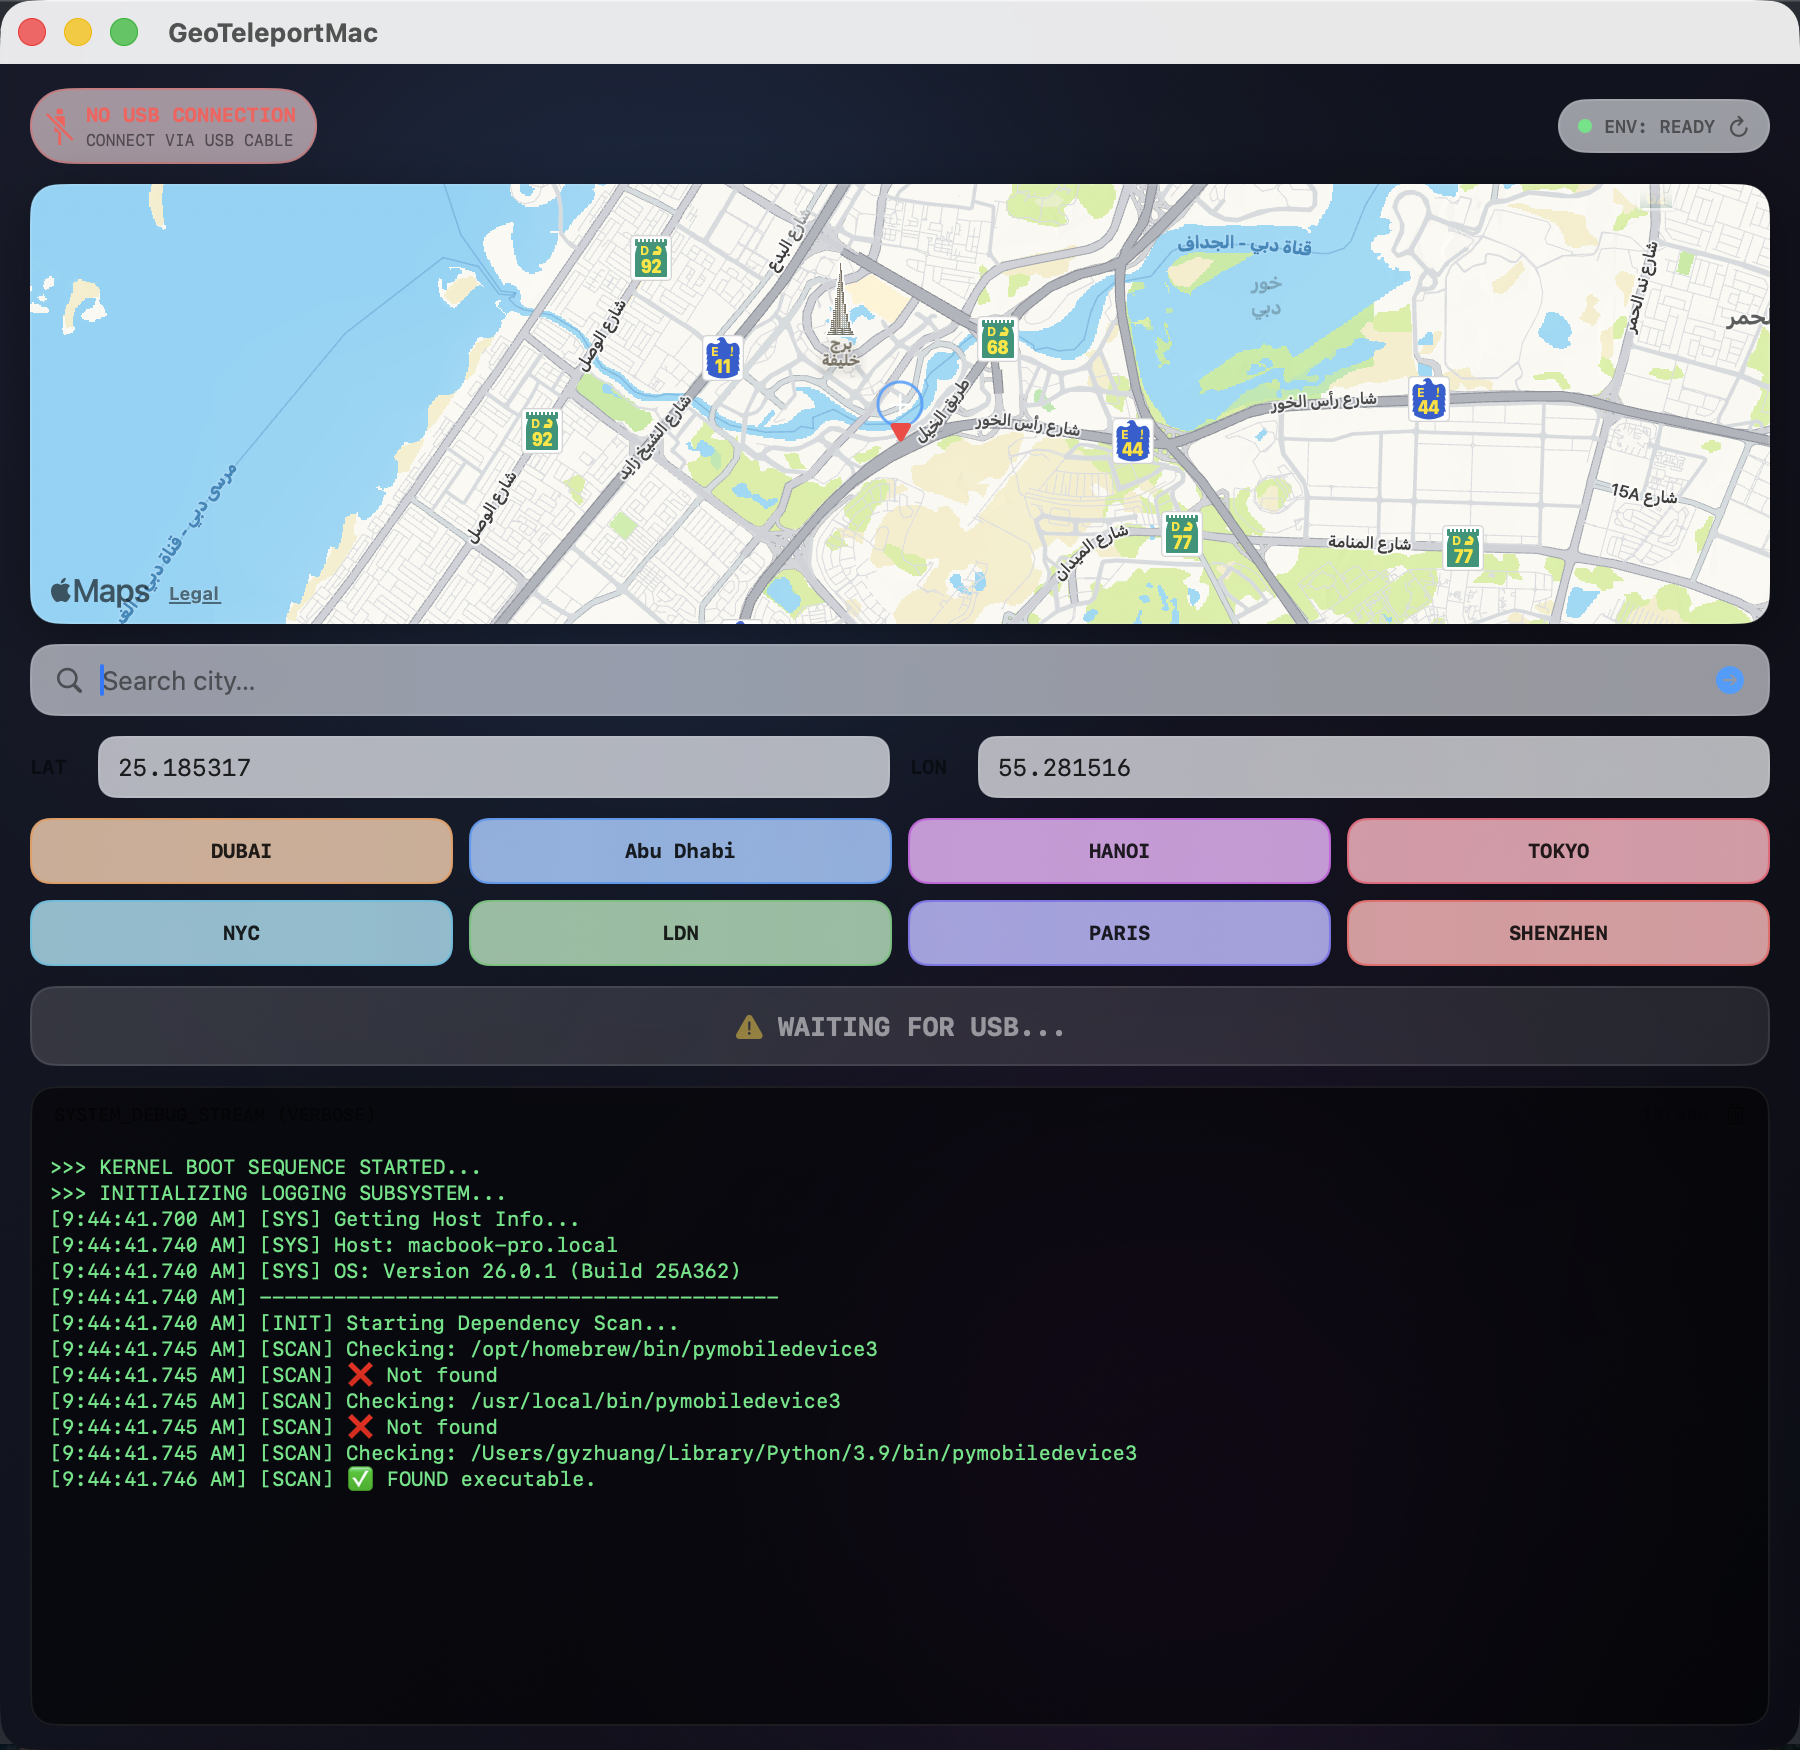
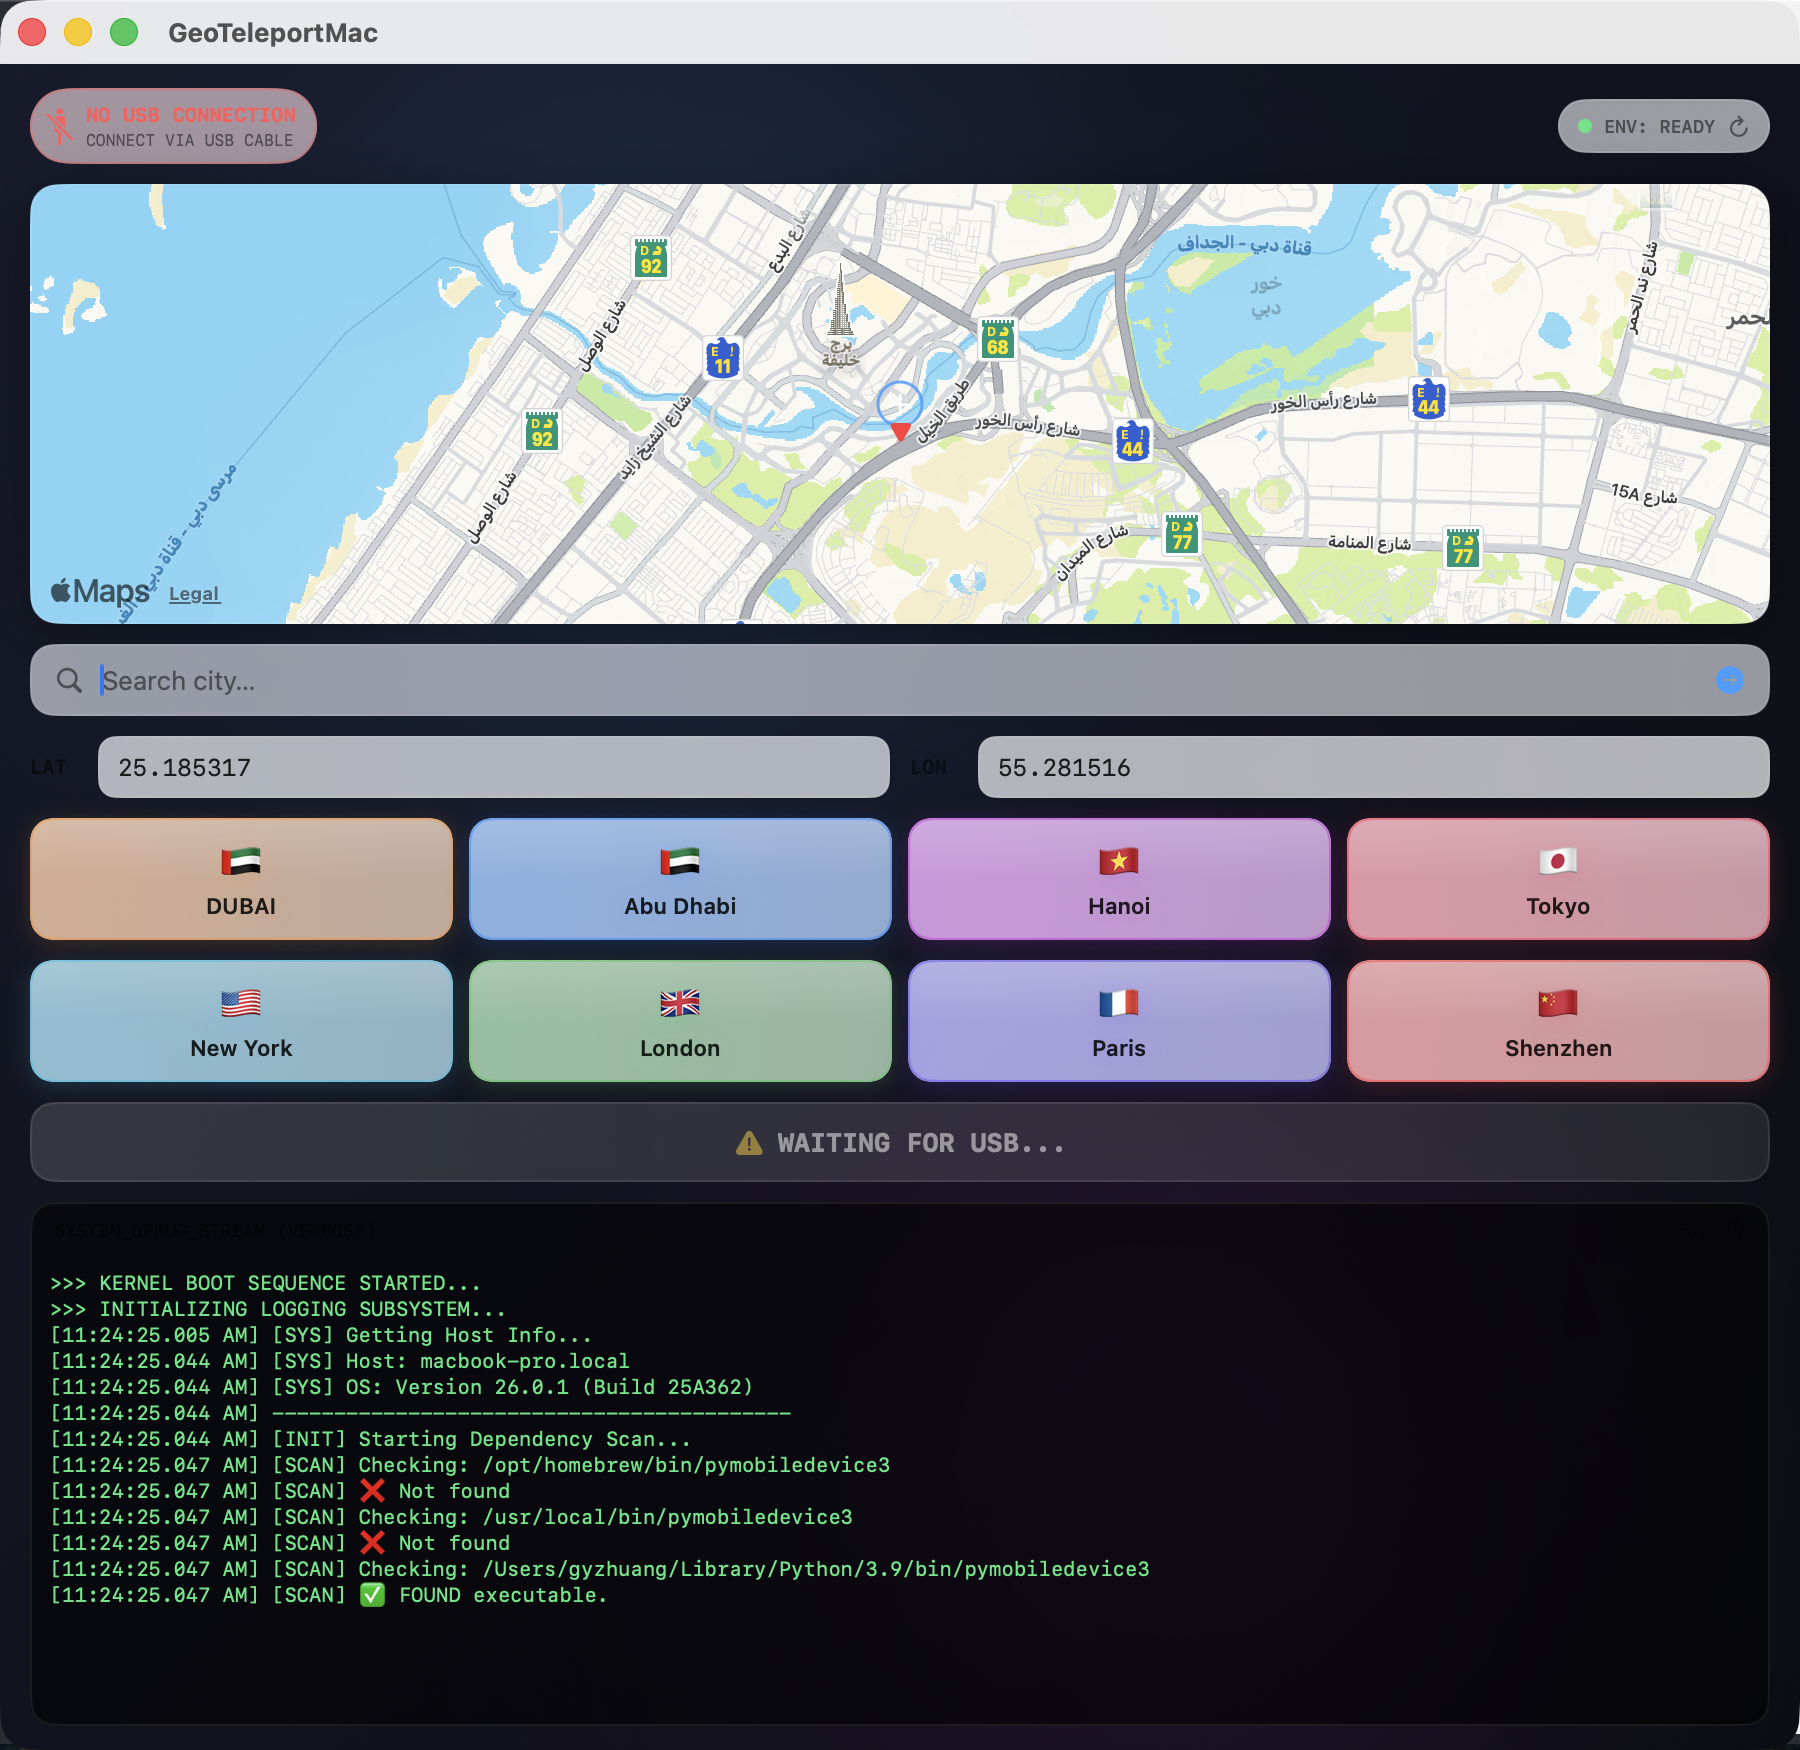
Redesign city preset buttons: flags + full names
- Each button now has a flag emoji on top and the city label below,
  with a two-layer gradient + material background and a soft tinted shadow
- Labels: NYC → New York, LDN → London; other caps cities title-cased
  for visual consistency; DUBAI and Abu Dhabi kept unchanged per request

diff --git a/GeoTeleportMac/ContentView.swift b/GeoTeleportMac/ContentView.swift
@@ -186,15 +186,15 @@ struct ContentView: View {
                 .padding(.horizontal, 15)
 
                 // 5. 快捷按钮
-                LazyVGrid(columns: [GridItem(.flexible()), GridItem(.flexible()), GridItem(.flexible()), GridItem(.flexible())], spacing: 8) {
-                    LocationButton(name: "DUBAI", lat: "25.185317", lon: "55.281516", color: .orange)
-                    LocationButton(name: "Abu Dhabi", lat: "24.340142", lon: "54.518667", color: .blue)
-                    LocationButton(name: "HANOI", lat: "20.992498", lon: "105.944606", color: .purple)
-                    LocationButton(name: "TOKYO", lat: "35.6895", lon: "139.6917", color: .pink)
-                    LocationButton(name: "NYC", lat: "40.7128", lon: "-74.0060", color: .cyan)
-                    LocationButton(name: "LDN", lat: "51.5074", lon: "-0.1278", color: .green)
-                    LocationButton(name: "PARIS", lat: "48.8566", lon: "2.3522", color: .indigo)
-                    LocationButton(name: "SHENZHEN", lat: "22.5431", lon: "114.0579", color: .red)
+                LazyVGrid(columns: [GridItem(.flexible()), GridItem(.flexible()), GridItem(.flexible()), GridItem(.flexible())], spacing: 10) {
+                    LocationButton(flag: "🇦🇪", name: "DUBAI",      lat: "25.185317", lon: "55.281516",  color: .orange)
+                    LocationButton(flag: "🇦🇪", name: "Abu Dhabi",  lat: "24.340142", lon: "54.518667",  color: .blue)
+                    LocationButton(flag: "🇻🇳", name: "Hanoi",      lat: "20.992498", lon: "105.944606", color: .purple)
+                    LocationButton(flag: "🇯🇵", name: "Tokyo",      lat: "35.6895",   lon: "139.6917",   color: .pink)
+                    LocationButton(flag: "🇺🇸", name: "New York",   lat: "40.7128",   lon: "-74.0060",   color: .cyan)
+                    LocationButton(flag: "🇬🇧", name: "London",     lat: "51.5074",   lon: "-0.1278",    color: .green)
+                    LocationButton(flag: "🇫🇷", name: "Paris",      lat: "48.8566",   lon: "2.3522",     color: .indigo)
+                    LocationButton(flag: "🇨🇳", name: "Shenzhen",   lat: "22.5431",   lon: "114.0579",   color: .red)
                 }
                 .padding(.horizontal, 15)
 
@@ -670,7 +670,7 @@ struct ContentView: View {
         }
     }
 
-    func LocationButton(name: String, lat: String, lon: String, color: Color) -> some View {
+    func LocationButton(flag: String, name: String, lat: String, lon: String, color: Color) -> some View {
         Button(action: {
             if let lLat = Double(lat), let lLon = Double(lon) {
                 self.region.center = CLLocationCoordinate2D(latitude: lLat, longitude: lLon)
@@ -679,26 +679,45 @@ struct ContentView: View {
                 self.log("[USER] Selected Preset: \(name)")
             }
         }) {
-            Text(name)
-                .font(.system(size: 10, weight: .bold, design: .monospaced))
-                .foregroundColor(.primary)
-                .lineLimit(1)
-                .minimumScaleFactor(0.7)
-                .frame(maxWidth: .infinity)
-                .padding(.vertical, 10)
-                .background(
-                    ZStack {
-                        RoundedRectangle(cornerRadius: 10, style: .continuous)
-                            .fill(color.opacity(0.45))
-                        RoundedRectangle(cornerRadius: 10, style: .continuous)
-                            .fill(.regularMaterial)
-                    }
-                    .clipShape(RoundedRectangle(cornerRadius: 10, style: .continuous))
-                )
-                .overlay(
-                    RoundedRectangle(cornerRadius: 10, style: .continuous)
-                        .strokeBorder(color.opacity(0.55), lineWidth: 1)
-                )
+            VStack(spacing: 3) {
+                Text(flag)
+                    .font(.system(size: 20))
+                Text(name)
+                    .font(.system(size: 11, weight: .semibold))
+                    .foregroundColor(.primary)
+                    .lineLimit(1)
+                    .minimumScaleFactor(0.7)
+            }
+            .frame(maxWidth: .infinity)
+            .padding(.vertical, 10)
+            .background(
+                ZStack {
+                    RoundedRectangle(cornerRadius: 12, style: .continuous)
+                        .fill(
+                            LinearGradient(
+                                colors: [color.opacity(0.55), color.opacity(0.28)],
+                                startPoint: .topLeading,
+                                endPoint: .bottomTrailing
+                            )
+                        )
+                    RoundedRectangle(cornerRadius: 12, style: .continuous)
+                        .fill(.regularMaterial)
+                    RoundedRectangle(cornerRadius: 12, style: .continuous)
+                        .fill(
+                            LinearGradient(
+                                colors: [Color.white.opacity(0.18), Color.clear],
+                                startPoint: .top,
+                                endPoint: .center
+                            )
+                        )
+                }
+                .clipShape(RoundedRectangle(cornerRadius: 12, style: .continuous))
+            )
+            .overlay(
+                RoundedRectangle(cornerRadius: 12, style: .continuous)
+                    .strokeBorder(color.opacity(0.50), lineWidth: 1)
+            )
+            .shadow(color: color.opacity(0.18), radius: 5, x: 0, y: 2)
         }.buttonStyle(.plain)
     }
 }
